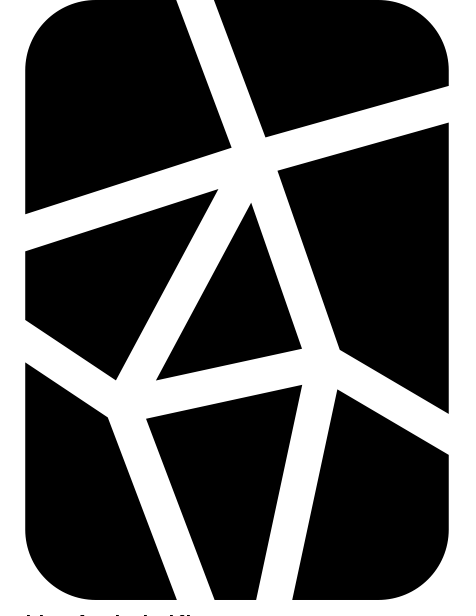
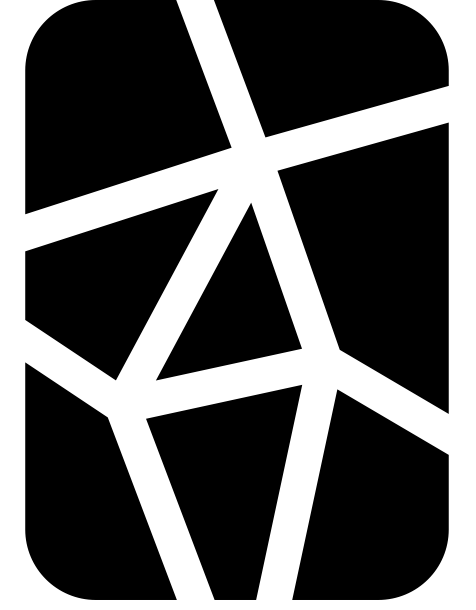
Removed negatively_regulates and positively_regulates redundant with node direction

diff --git a/docs/camo_annotation_guide.html b/docs/camo_annotation_guide.html
@@ -19,6 +19,8 @@
 body{font-family:system-ui,-apple-system,sans-serif;font-size:16px;line-height:1.7;color:var(--charcoal);background:var(--cream)}
 a{color:var(--forest);text-decoration:underline}
 a:hover{color:var(--burgundy)}
+.hero a{color:var(--mint)}
+.hero a:hover{color:var(--cream)}
 h1,h2,h3,h4{font-weight:700;line-height:1.3}
 h2{font-size:1.7rem;color:var(--forest);border-bottom:3px solid var(--sage);padding-bottom:.4rem;margin:2.5rem 0 1rem}
 h3{font-size:1.25rem;color:var(--forest);margin:1.8rem 0 .6rem}
@@ -41,7 +43,7 @@ nav li.section-head a{font-weight:700;font-size:.8rem;letter-spacing:.06em;text-
 nav li.section-head a:hover{background:none;border-left-color:transparent}
 nav li.sub a{padding-left:2.2rem;font-size:.8rem}
 main{flex:1;max-width:860px;padding:2rem 3rem 4rem;overflow-x:hidden}
-.step-badge{display:inline-flex;align-items:center;justify-content:center;width:2rem;height:2rem;border-radius:50%;background:var(--forest);color:var(--cream);font-weight:700;font-size:.9rem;margin-right:.5rem;flex-shrink:0}
+.step-badge{display:inline-flex;align-items:center;justify-content:center;padding:.2rem .7rem;border-radius:20px;background:var(--forest);color:var(--cream);font-weight:700;font-size:.85rem;margin-right:.5rem;flex-shrink:0;white-space:nowrap}
 .step-header{display:flex;align-items:center;margin-bottom:-.5rem}
 
 /* Hero */
@@ -51,8 +53,8 @@ main{flex:1;max-width:860px;padding:2rem 3rem 4rem;overflow-x:hidden}
 .hero .lead{color:rgba(232,221,208,.9);font-size:.95rem;margin:0}
 .workflow-steps{display:grid;grid-template-columns:repeat(4,1fr);gap:1rem;margin-top:1.5rem}
 .workflow-step{background:rgba(232,221,208,.1);border:1px solid rgba(139,173,140,.4);border-radius:6px;padding:.9rem;text-align:center}
-.workflow-step .num{font-size:1.5rem;font-weight:700;color:var(--mint)}
-.workflow-step .label{font-size:.8rem;color:var(--cream);margin-top:.3rem}
+.workflow-step .num{display:inline-block;background:var(--mint);color:var(--forest);font-size:.85rem;font-weight:700;padding:.2rem .7rem;border-radius:20px;white-space:nowrap}
+.workflow-step .label{font-size:.8rem;color:var(--cream);margin-top:.6rem}
 
 /* Callout boxes */
 .callout{padding:1rem 1.2rem;border-radius:6px;margin:1.2rem 0;border-left:4px solid}
@@ -216,10 +218,10 @@ dl.glossary dd{margin-left:1.5rem;font-size:.88rem;color:var(--charcoal)}
   <p class="subtitle">A step-by-step handbook for annotating causal claims in ecological literature</p>
   <p class="lead">This guide walks you through annotating a scientific paper using the <strong>Causal Mosaic (CAMO)</strong> schema inside <strong>Loom</strong>. We use <a href="https://onlinelibrary.wiley.com/doi/10.1111/j.1526-100X.2005.00075.x">Murphy (2005)</a> — a restoration ecology study on bloodroot and garlic mustard — as our running example throughout.</p>
   <div class="workflow-steps">
-    <div class="workflow-step"><div class="num">1</div><div class="label">Source Document</div></div>
-    <div class="workflow-step"><div class="num">2</div><div class="label">Identify Nodes</div></div>
-    <div class="workflow-step"><div class="num">3</div><div class="label">Map Pathways</div></div>
-    <div class="workflow-step"><div class="num">4</div><div class="label">Encode Edges</div></div>
+    <div class="workflow-step"><div class="num">Step 1</div><div class="label">Source Document</div></div>
+    <div class="workflow-step"><div class="num">Step 2</div><div class="label">Identify Nodes</div></div>
+    <div class="workflow-step"><div class="num">Step 3</div><div class="label">Map Pathways</div></div>
+    <div class="workflow-step"><div class="num">Step 4</div><div class="label">Encode Edges</div></div>
   </div>
 </div>
 
@@ -270,7 +272,7 @@ dl.glossary dd{margin-left:1.5rem;font-size:.88rem;color:var(--charcoal)}
 
 <!-- ======= SOURCE DOCUMENT ======= -->
 <section id="source-doc">
-<div class="step-header"><div class="step-badge">1</div><h2 style="border:none;margin:0">Verify the Source Document</h2></div>
+<div class="step-header"><div class="step-badge">Step 1</div><h2 style="border:none;margin:0">Verify the Source Document</h2></div>
 <p style="margin-top:.5rem">Before touching nodes or edges, make sure the bibliographic metadata is correct. This information flows into every edge you create and is critical for evidence synthesis downstream.</p>
 
 <div class="screenshot">
@@ -292,6 +294,14 @@ dl.glossary dd{margin-left:1.5rem;font-size:.88rem;color:var(--charcoal)}
   <li><strong>study_design</strong> — pick the closest match (e.g., <code>randomized_experiment</code>, <code>observational_longitudinal</code>)</li>
 </ul>
 
+<div class="screenshot">
+  <div class="icon">📸</div>
+  <div>
+    <img src="./screenshots/source_document_studydesign.jpg" alt="Study design dropdown and sample size field" style="width:100%;height:auto;">
+    <p>The study design dropdown and sample size field. Choose the closest match for study design and describe replication level as free text in sample size.</p>
+  </div>
+</div>
+
 <h3>Spatial and temporal context</h3>
 <p>These fields power map-based evidence gap maps and help practitioners find studies near their site:</p>
 <ul>
@@ -300,6 +310,22 @@ dl.glossary dd{margin-left:1.5rem;font-size:.88rem;color:var(--charcoal)}
   <li><strong>study_period_start / end</strong> — when data collection happened, in ISO format (e.g., <code>1997</code>, <code>2000</code>). Not the publication date.</li>
   <li><strong>study_sample_size</strong> — free text, e.g., "40 plots: 4 randomized complete blocks × 10 density treatments"</li>
 </ul>
+
+<div class="screenshot">
+  <div class="icon">📸</div>
+  <div>
+    <img src="./screenshots/source_document_studycoords.jpg" alt="Study coordinates, country, province, and coordinate location basis fields" style="width:100%;height:auto;">
+    <p>Study coordinates and location fields. Enter coordinates in decimal degrees (WGS 84) and indicate whether they represent the exact site or the nearest municipality.</p>
+  </div>
+</div>
+
+<div class="screenshot">
+  <div class="icon">📸</div>
+  <div>
+    <img src="./screenshots/source_document_studytime.jpg" alt="Study period start, end, duration, and temporal note fields" style="width:100%;height:auto;">
+    <p>Temporal context fields. Study period refers to when data collection happened — not the publication date. Use the temporal note for free-text context that doesn't fit the structured fields.</p>
+  </div>
+</div>
 
 <div class="callout example">
   <strong class="label">Murphy 2005 — completed source document</strong>
@@ -332,7 +358,7 @@ study_sample_size: "40 plots: 4 randomized complete blocks
 
 <!-- ======= NODES INTRO ======= -->
 <section id="nodes-intro">
-<div class="step-header"><div class="step-badge">2</div><h2 style="border:none;margin:0">Identify Nodes</h2></div>
+<div class="step-header"><div class="step-badge">Step 2</div><h2 style="border:none;margin:0">Identify Nodes</h2></div>
 <p style="margin-top:.5rem">A <strong>node</strong> represents a <em>causally relevant entity</em> in the paper — something that participates in a cause-and-effect relationship. Before you can draw any arrows, you need to identify all the "things" the paper claims are causing or being caused.</p>
 <p style="margin-top:.5rem">It can be helpful from a workflow perspective to think about all of the nodes in a paper before you start annotating. Nodes should only be included if there is an edge.</p>
 
@@ -432,6 +458,22 @@ study_sample_size: "40 plots: 4 randomized complete blocks
 </tbody>
 </table>
 
+<div class="screenshot">
+  <div class="icon">📸</div>
+  <div>
+    <img src="./screenshots/node_tophalf.jpg" alt="Node form top half showing name, entity type, entity term, measured attribute, and state or change qualifier fields" style="width:100%;height:auto;">
+    <p>The top half of the node form. Fill in the name as a composed human-readable label, then set entity type, entity term, measured attribute, and state/change qualifier.</p>
+  </div>
+</div>
+
+<div class="screenshot">
+  <div class="icon">📸</div>
+  <div>
+    <img src="./screenshots/node_bottomhalf.jpg" alt="Node form bottom half showing taxonomic scope and applied to fields" style="width:100%;height:auto;">
+    <p>The bottom half of the node form. Taxonomic scope is used only on <code>environmental_variable</code> nodes spanning multiple taxa. Applied to is used on <code>management_intervention</code> and <code>environmental_process</code> nodes to specify the target entity.</p>
+  </div>
+</div>
+
 <h3 id="pids">Permanent identifiers — a critical step</h3>
 
 <p>The <code>entity_term</code> field should almost always contain an <strong>ontology CURIE</strong> rather than plain text. A CURIE looks like <code>WD:Q157057</code> or <code>ENVO:01000253</code>. This is one of the most important practices in CAMO annotation.</p>
@@ -458,12 +500,28 @@ study_sample_size: "40 plots: 4 randomized complete blocks
 
 <div class="callout tip">
   <strong class="label">When no ontology term exists</strong>
-  It's fine to use free text as a fallback (e.g., <code>entity_term: "plant translocation process"</code>). Loom will flag this for curation. Write the most specific free text you can, and add a note that no ontology term was found. 
+  It's fine to use free text as a fallback (e.g., <code>entity_term: "plant translocation process"</code>). Loom will flag this for curation. Write the most specific free text you can, and add a note that no ontology term was found.
+</div>
+
+<div class="screenshot">
+  <div class="icon">📸</div>
+  <div>
+    <img src="./screenshots/node_suggestaterm.jpg" alt="Suggest a term dialog for proposing a new ontology entry when no existing term matches" style="width:100%;height:auto;">
+    <p>When your entity term isn't found in the cached ontology, Loom prompts you to propose it. Select the target ontology, optionally add a broader parent term and a definition, then click <strong>Log suggestion</strong> to submit it for curation.</p>
+  </div>
 </div>
 
 <h3 id="nodes-murphy">Murphy 2005 walkthrough: identifying all nodes</h3>
 
 <p>Murphy (2005) is a 4-year field experiment in Ontario in which <em>Sanguinaria canadensis</em> (bloodroot, a native spring ephemeral) was transplanted at ten different densities to test whether it could suppress <em>Alliaria petiolata</em> (garlic mustard, an invasive herb). Murphy's experiment uses 40 plots in a randomized block design.</p>
+
+<div class="screenshot">
+  <div class="icon">📸</div>
+  <div>
+    <img src="./screenshots/node_addtoexcerptbin.jpg" alt="Loom interface showing text selected in the paper being added to the excerpt bin, alongside the Add Node form" style="width:100%;height:auto;">
+    <p>Highlight a passage in the paper text to add it to the excerpt bin. Then click <strong>+ Add node</strong> to open the node form on the right — the selected text will become a <code>source_span</code> grounding the node you create.</p>
+  </div>
+</div>
 
 <p>Before opening Loom, read the paper once through and ask: <em>"What does this paper claim is causing what?"</em> Jot down the key claims. Then identify the entities involved. For Murphy (2005), those are:</p>
 
@@ -513,7 +571,7 @@ source_spans:
 
 <!-- ======= PATHWAYS ======= -->
 <section id="pathways">
-<div class="step-header"><div class="step-badge">3</div><h2 style="border:none;margin:0">Map the Causal Pathways</h2></div>
+<div class="step-header"><div class="step-badge">Step 3</div><h2 style="border:none;margin:0">Map the Causal Pathways</h2></div>
 <p style="margin-top:.5rem">Before encoding formal edges in Loom, sketch the causal graph on paper (or a whiteboard). Ask: which nodes cause which other nodes? Draw arrows.</p>
 
 <div class="callout important">
@@ -535,7 +593,7 @@ source_spans:
 
 <!-- ======= EDGES INTRO ======= -->
 <section id="edges-intro">
-<div class="step-header"><div class="step-badge">4</div><h2 style="border:none;margin:0">Encode Edges</h2></div>
+<div class="step-header"><div class="step-badge">Step 4</div><h2 style="border:none;margin:0">Encode Edges</h2></div>
 <p style="margin-top:.5rem">An <strong>edge</strong> is a single causal claim — one arrow in the graph. It connects a cause node (<code>subject</code>) to an effect node (<code>object</code>) via a predicate (the type of causal relationship). Edges are where most of the annotation work happens.</p>
 
 <p>Every edge has four annotation layers, plus supporting metadata. We'll go through each in turn.</p>
@@ -954,8 +1012,8 @@ source_spans:
 <div class="screenshot">
   <div class="icon">📸</div>
   <div>
-    <strong>Screenshot: Edge creation form in Loom</strong>
-    <p>The edge annotation panel shows all four layers stacked vertically. The philosophical accounts are checkboxes (select all that apply). The 15 causal features are collapsible panels. Source spans are created by highlighting text in the PDF panel on the left.</p>
+    <img src="./screenshots/edge_creation.jpg" alt="Edge creation form in Loom showing Layer 1 claim and predicate fields, ELMO context, and the node list above" style="width:100%;height:auto;">
+    <p>The edge annotation panel with Layer 1 (Claim &amp; Predicate) expanded. Select predicate and claim strength, optionally check Negated, and paste the original sentence. The node list at the top shows all available nodes to connect. Layers 2–4 appear as collapsible panels below.</p>
   </div>
 </div>
 
@@ -964,7 +1022,7 @@ source_spans:
 <div class="yaml-block">
 <div class="yaml-header">edge:murphy2005_sanguinaria_suppresses_alliaria_performance</div>
 <pre>subject: node:murphy2005_sanguinaria_transplanting
-predicate: negatively_regulates
+predicate: contributes_to
 object: node:murphy2005_alliaria_population_performance
 negated: false
 claim_strength: direct_causal

diff --git a/README.md b/README.md
@@ -13,7 +13,7 @@ A LinkML schema for representing ecological causal claims as an ontology-grounde
 
 | File / folder | Purpose |
 |---|---|
-| `causal_mosaic_v0.7.2.yaml` | Current versioned LinkML schema |
+| `causalmosaic.yaml` | Current versioned LinkML schema |
 | `CHANGELOG.md` | Schema change history with rationale |
 | `docs/sample_data.yaml` | Full worked example (grassland restoration) |
 | `docs/sample_data_grounded.yaml` | Compact ontology-grounded version of the same example |
@@ -87,7 +87,7 @@ regenerated when the underlying evidence base changes.
 
 ## What comes out?
 
-- Versioned, validated YAML records conforming to `causal_mosaic_v0.7.1.yaml`
+- Versioned, validated YAML records conforming to `causalmosaic.yaml`
 - Causal graphs suitable for Fuzzy Cognitive Maps, Evidence Gap Maps, and RAG pipelines
 - Structured evidence for practitioner summaries and systematic reviews
 